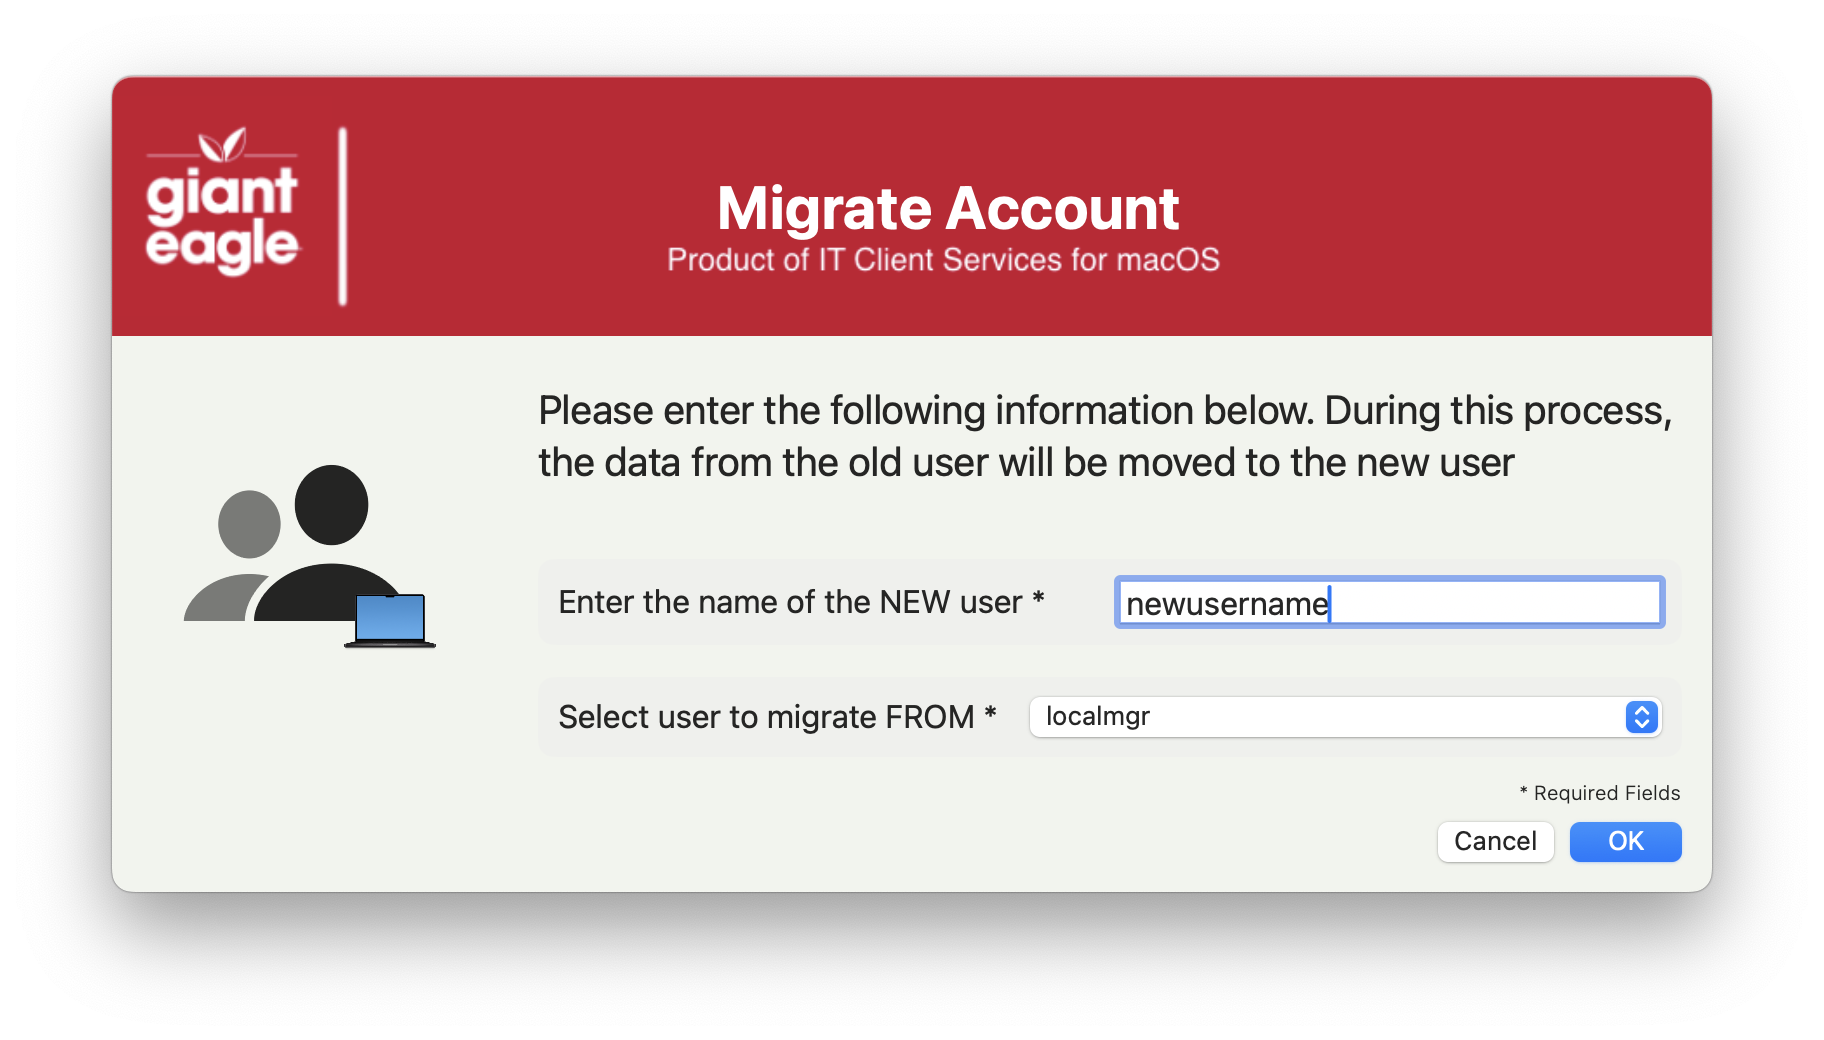
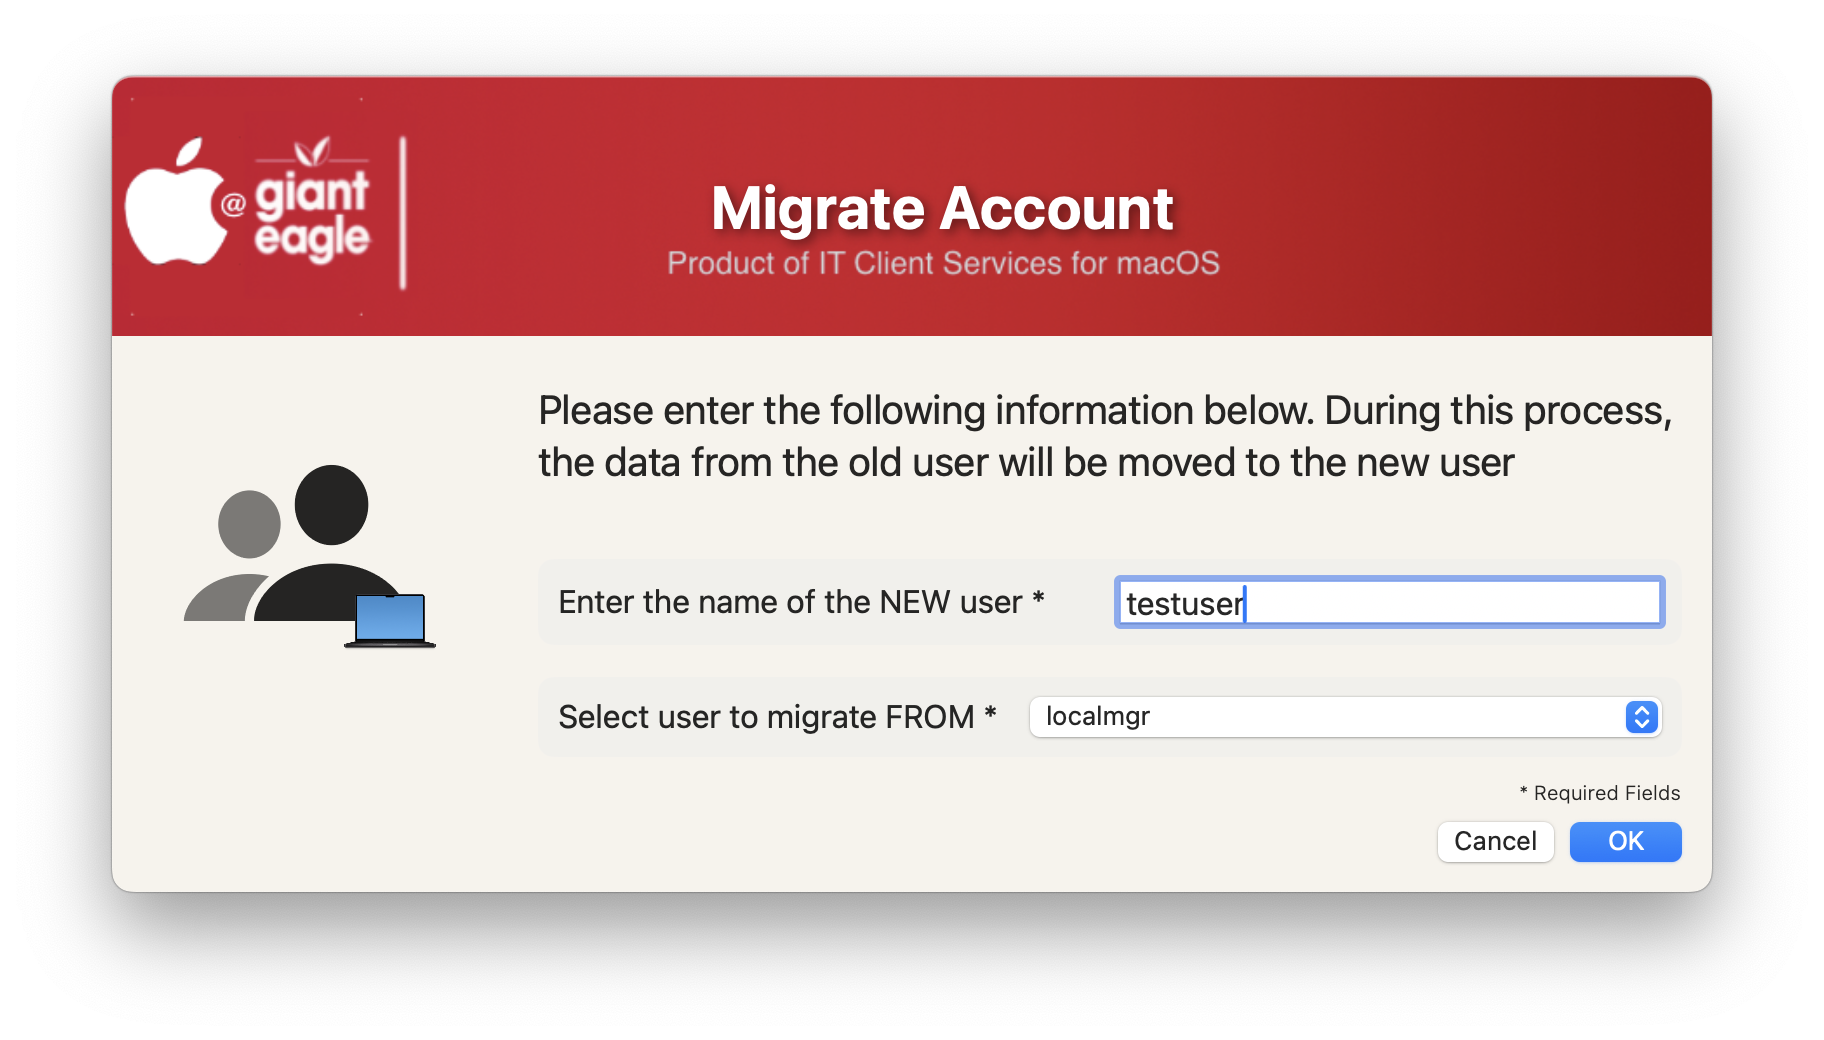
Move user folder to a new account

diff --git a/MigrateUserAccount/README.md b/MigrateUserAccount/README.md
@@ -6,18 +6,22 @@ This script is designed to do (basically) a "rename" of the users home folder, b
 
 Initial Welcome Screen
 
-![](/MigrateUserAccount/MigrateUserAccount_Conversion.png)
+![](./MigrateUserAccount_Conversion.png)
 
 Various sanity checks & errors
 
-![](/MigrateUserAccount/MigrateUserAccount_Failure.png)
+![](./MigrateUserAccount_Failure.png)
 
 Successful transfer of user accounts (restart is necessary if successful)
 
-![](/MigrateUserAccount/MigrateUserAccount_Success.png)
+![](./MigrateUserAccount_Success.png)
 
-
-
-##### _v1.0 - Initial Commit_
-##### _v1.1 - Major code cleanup & documentation / Structred code to be more inline / consistent across all apps_
+#### 1.0 - Initial
+#### 1.1 - Code cleanup to be more consistent with all apps
+#### 1.2 - changed the 'create_welcome_dialog' function to use JSON output and parse info differently
+#### 1.3 - Code cleanup
+####       Add verbiage in the window if Grand Perspective is installed.
+####       Added feature to read in defaults file
+####       removed unnecessary variables.
+####       Fixed typos
 
